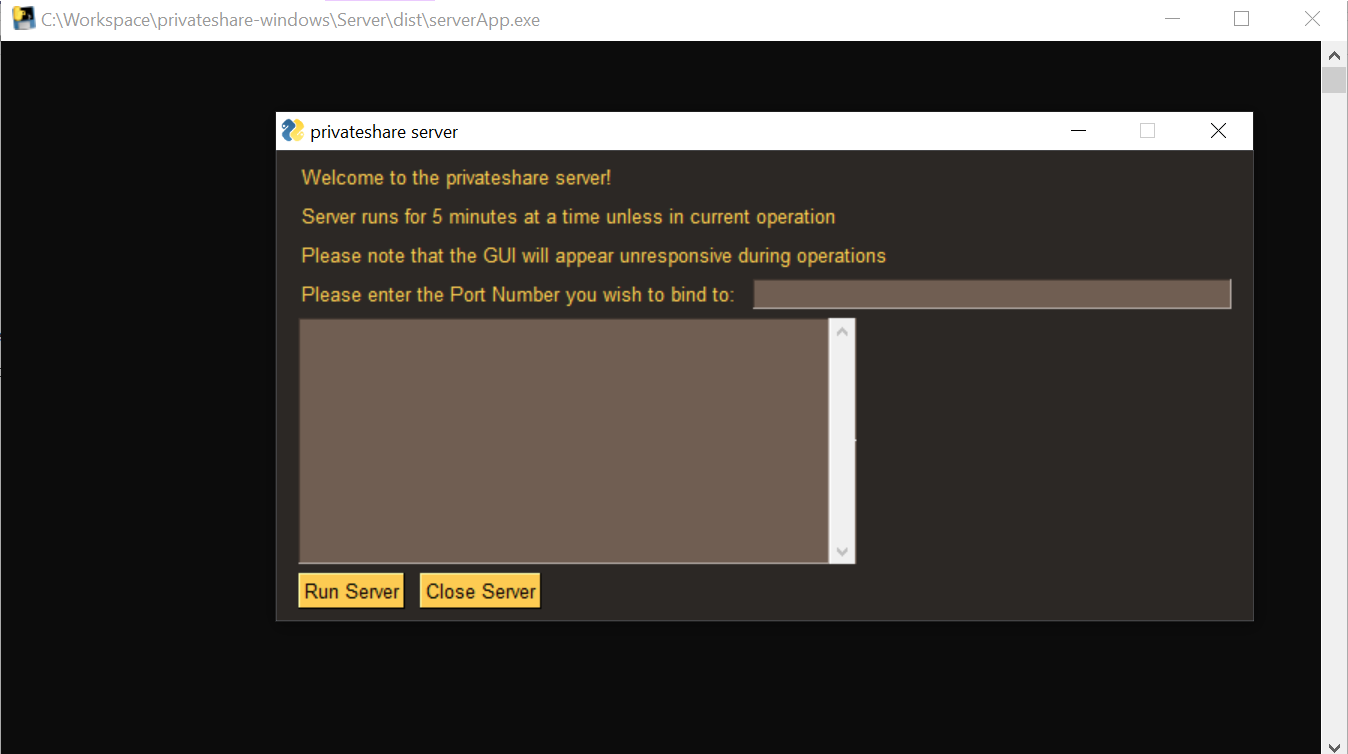
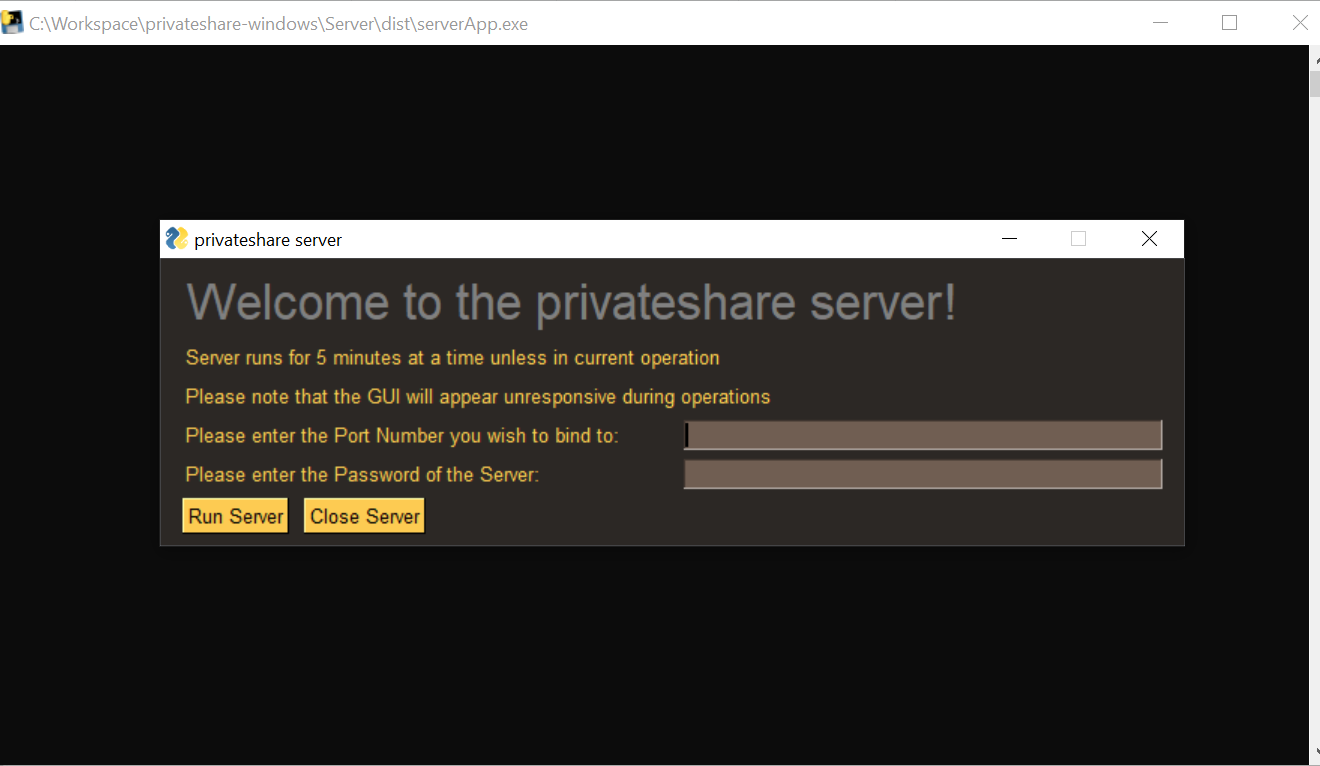
Fixed the tutorial including how to use new password feature

diff --git a/privateshare-windows.html b/privateshare-windows.html
@@ -14,33 +14,28 @@
   <link href="css/scrolling-nav.css" rel="stylesheet">
 </head>
 <body>
-<!-- Navigation -->
-<nav class="navbar navbar-expand-lg navbar-light bg-light shadow fixed-top">
-  <div class="container">
-    <a class="navbar-brand" href="privateshare-windows.html">privateshare</a>
-    <button class="navbar-toggler" type="button" data-toggle="collapse" data-target="#navbarResponsive" aria-controls="navbarResponsive" aria-expanded="false" aria-label="Toggle navigation">
-          <span class="navbar-toggler-icon"></span>
-        </button>
-    <div class="collapse navbar-collapse" id="navbarResponsive">
-      <ul class="navbar-nav ml-auto">
-        <li class="nav-item active">
-          <a class="nav-link" href="index.html">Home
-                <span class="sr-only">(current)</span>
-              </a>
-        </li>
-        <li class="nav-item">
-          <a class="nav-link" href="index.html#about">About</a>
-        </li>
-        <li class="nav-item">
-          <a class="nav-link" href="index.html#github">Github Projects</a>
-        </li>
-        <li class="nav-item">
-          <a class="nav-link" href="index.html#contact">Contact</a>
-        </li>
-      </ul>
+  <!-- Navigation -->
+  <nav class="navbar navbar-expand-lg navbar-dark bg-dark fixed-top" id="mainNav">
+    <div class="container">
+      <a class="navbar-brand js-scroll-trigger" href="#page-top">aufderheyde.me</a>
+      <button class="navbar-toggler" type="button" data-toggle="collapse" data-target="#navbarResponsive" aria-controls="navbarResponsive" aria-expanded="false" aria-label="Toggle navigation">
+        <span class="navbar-toggler-icon"></span>
+      </button>
+      <div class="collapse navbar-collapse" id="navbarResponsive">
+        <ul class="navbar-nav ml-auto">
+          <li class="nav-item">
+            <a class="nav-link js-scroll-trigger" href="index.html#about">About</a>
+          </li>
+          <li class="nav-item">
+            <a class="nav-link js-scroll-trigger" href="index.html#github">Github Projects</a>
+          </li>
+          <li class="nav-item">
+            <a class="nav-link js-scroll-trigger" href="index.html#contact">Contact</a>
+          </li>
+        </ul>
+      </div>
     </div>
-  </div>
-</nav>
+  </nav>
 
 <!-- Full Page Image Header with Vertically Centered Content -->
 <header class="masthead">
@@ -49,6 +44,20 @@
       <div class="col-12 text-center">
         <h1 class="font-weight-light">Welcome to privateshare</h1>
         <p class="lead">A simple file service application using the Python socekt library</p>
+        <br>
+        <div class="row">
+            <div class="col">
+                <a href="#downloads" class="button js-scroll-trigger" style="vertical-align:middle">Downloads</a>
+            </div>
+            <div class="col">
+                <a href="#serverinstallation" class="button js-scroll-trigger" style="vertical-align:middle">Server Install</a>
+            </div>
+            <div class="col">
+                <a href="#clientinstallation" class="button js-scroll-trigger" style="vertical-align:middle">Client Install</a>
+            </div>
+            <div class="col">
+                <a href="#faqs" class="button js-scroll-trigger" style="vertical-align:middle">FAQ's</a>
+            </div>
       </div>
     </div>
   </div>
@@ -57,6 +66,7 @@
 <!-- Page Content -->
 <section class="py-5">
   <div class="container">
+  <section id="downloads">
     <h2 class="font-weight-light">Downloads</h2>
     <hr>
     <br>
@@ -73,25 +83,28 @@
         <li><h4 class="font-weight-light">Download Server here: <a href="https://github.com/Vivinen/privateshare-mac/blob/master/Server/dist/serverApp">Click me</a><h4></li>
         <li><h4 class="font-weight-light">Download Client here: <a href="https://github.com/Vivinen/privateshare-mac/blob/master/Client/dist/clientApp">Click me</a><h4></li>
     </ul>
+    </section>
     <br>
     <br>
     <br>
     <br>
+    <section id="serverinstallation">
     <h2 class="font-weight-light">Installation</h2>
     <hr>
     <br>
     <ol>
-        <h5 class="font-weight-light"><li>Download the client or server from the links above. Which you need will depend on what you are trying to do (download/upload).</li></h5>
         <br>
         <hr>
-        <h4 class="font-weight-light">Server Installation (Steps 2-7)</h4>
+        <h4 class="font-weight-light">Server Installation</h4>
+        <br>
+        <h5 class="font-weight-light"><li>Download the client or server from the links above. Which you need will depend on what you are trying to do (download/upload).</li></h5>
         <br>
         <h5 class="font-weight-light"><li>Open serverApp.exe/serverApp.app and wait for the GUI to load like in the image below.</li></h5>
         <br>
         <img src="images/server1.png" alt="This is the serverApp upon initial loading">
         <br>
         <br>
-        <h5 class="font-weight-light"><li>Enter the port number you wish the server socket to bind to like in the image below.</li></h5>
+        <h5 class="font-weight-light"><li>Enter the port number you wish the server socket to bind to like in the image below. Also enter a server password which will securely encrypt the data being transferred from server to client. The client must enter this password to access the server.</li></h5>
         <br>
         <img src="images/server2.png" alt="This is the serverApp with a port number entered">
         <br>
@@ -105,25 +118,31 @@
         <br>
         <h5 class="font-weight-light"><li>The Server may appear frozen after accepting this prompt. If so, do not worry, the server is working! This is a bug to do with GUI's and infinite loops, but not to worry, the server is working!</li></h5>
         <br>
-        <h5 class="font-weight-light"><li>Last but not least, in future when opening the server and connecting to a port, it will look look like this</li></h5>
+        <h5 class="font-weight-light"><li>Last but not least, in future when opening the server and connecting to a port, it will look look like this.</li></h5>
         <br>
         <img src="images/server4.png" alt="This is the serverApp unfrozed and running">
         <br>
         <br>
+    </ol>
+    </section>
+    <section id="clientinstallation">
+    <ol>
         <hr>
-        <h4 class="font-weight-light">Client Installation (Steps 8-14)</h4>
+        <h4 class="font-weight-light">Client Installation</h4>
         <br>
-        <h5 class="font-weight-light"><li>Open clientApp.exe/clientApp.app and wait for the GUI to load like the image below</li></h5>
+        <h5 class="font-weight-light"><li>Download the client or server from the links above. Which you need will depend on what you are trying to do (download/upload).</li></h5>
+        <br>
+        <h5 class="font-weight-light"><li>Open clientApp.exe/clientApp.app and wait for the GUI to load like the image below.</li></h5>
         <br>
         <img src="images/client1.png" alt="Client Upon Loading initially">
         <br>
         <br>
-        <h5 class="font-weight-light"><li>Enter the IP address of the server you are trying to connect to as well as the port number the server is bound to (these credentials are usually provided by the person maintaining the server)</li><h5>
+        <h5 class="font-weight-light"><li>Enter the IP address of the server you are trying to connect to as well as the port number the server is bound to (these credentials are usually provided by the person maintaining the server). Please also enter the server password which is specified by the server maintainer.</li><h5>
         <br>
         <img src="images/client2.png" alt="Client with entered credentials">
         <br>
         <br>
-        <h5 class="font-weight-light"><li>From here you can connect with the server by selecting one of the options from the menu on the left. "Put", uploads a file with specified filename to the server. "Get" downloads a file with specified filename from the server. "List", retrieves a list of available files from the server which can be downloaded by the client.</li></h5>
+        <h5 class="font-weight-light"><li>From here you can connect with the server by selecting one of the options from the menu. "Put", uploads a file with specified filename to the server. "Get" downloads a file with specified filename from the server. "List", retrieves a list of available files from the server which can be downloaded by the client.</li></h5>
         <br>
         <h5 class="font-weight-light"><li>Start with the "List" command to see what's available on the server.</li></h5>
         <br>
@@ -131,28 +150,56 @@
         <img src="images/client3.1.png" alt="List command of clientApp">
         <br>
         <br>
-        <h5 class="font-weight-light"><li>To download a file from the given list, change the option to "Get" from the operation menu on the left, choose a file, and type that filename into the box at the bottom of the application. Then press the "Put/Get/List" button to begin the download. * Note, files will be downloaded by default to the same directory in which clientApp.exe/clientApp.app is located.</li></h5>
+        <h5 class="font-weight-light"><li>To download a file from the given list, change the option to "Get" from the operation menu, choose a file, and type that filename into the box at the bottom of the application. Then press the "Put/Get/List" button to begin the download. * Note, files will be downloaded by default to the same directory in which clientApp.exe/clientApp.app is located.</li></h5>
         <br>
+        <img src="images/client4.png" alt="Get operation of clientApp">
         <img src="images/client4.1.png" alt="Get operation of clientApp">
-        <img src="images/client4.2.png" alt="Get operation of clientApp">
         <br>
         <br>
-        <h5 class="font-weight-light"><li>To upload file to the server, change the option to "Put" from the operation menu on the left, choose a file from the directory in which clientApp.exe/clientApp.app is located in, and enter the filename into the box at the bottom of the application. Then press the "Put/Get/List" button to begin the upload.
+        <h5 class="font-weight-light"><li>To upload file to the server, change the option to "Put" from the operation menu, choose a file from the directory in which clientApp.exe/clientApp.app is located in, and enter the filename into the box at the bottom of the application. Then press the "Put/Get/List" button to begin the upload.
         <br>
         <br>
         <img src="images/client5.png" alt="Upload operation of clientApp">
         <img src="images/client5.1.png" alt="Upload operation of clientApp">
-        <br>
-        <br>
-        <h5 class="font-weight-light"><li></li></h5>
     </ol>
+    <br>
+    <br>
+    </section>
+    <br>
+    <br>
+    <section id="faqs">
     <h2 class="font-weight-light">Frequently Asked Questions</h2>
     <hr>
     <br>
     <ol>
-    <h3 class="font-weight-light"><li>
-    
+    <h3 class="font-weight-light"><li>Is privateshare safe to use?</li></h3>
+    <br>
+    <h4 class="font-weight-light">Privateshare is comepletely safe to use in the sense that all source code involved in the program is open source and available for inspection on GitHub. AES encryption is used to encrypt data serverside before sending any packets and a unique request cryptographic key is generated per request and shared with the client if a correct password is entered.</h4>
+    <br>
+    <h3 class="font-weight-light"><li>Is privateshare legal to use?</li></h3>
+    <br>
+    <h4 class="font-weight-light">privateshare is completely legal to use for sharing files. That being said, the creator of privateshare does not condone the use of this software for sharing any copyrighted materials, as well as any other nefarious uses for which this software may be abused.</h4>
+    <br>
+    </section>
   </div>
 </section>
+
+  <!-- Footer -->
+  <footer class="py-5 bg-dark">
+    <div class="container">
+      <p class="m-0 text-center text-white">Copyright &copy; aufderheyde.me 2020</p>
+    </div>
+    <!-- /.container -->
+  </footer>
+
+  <!-- Bootstrap core JavaScript -->
+  <script src="vendor/jquery/jquery.min.js"></script>
+  <script src="vendor/bootstrap/js/bootstrap.bundle.min.js"></script>
+
+  <!-- Plugin JavaScript -->
+  <script src="vendor/jquery-easing/jquery.easing.min.js"></script>
+
+  <!-- Custom JavaScript for this theme -->
+  <script src="js/scrolling-nav.js"></script>
 </body>
 </html>

diff --git a/css/scrolling-nav.css b/css/scrolling-nav.css
@@ -24,3 +24,43 @@ img {
   background-position: center;
   background-repeat: no-repeat;
 }
+
+.button {
+  display: inline-block;
+  border-radius: 4px;
+  background-color: #f4511e;
+  border: none;
+  color: #FFFFFF;
+  text-align: center;
+  font-size: 28px;
+  padding: 20px;
+  width: 200px;
+  transition: all 0.5s;
+  cursor: pointer;
+  margin: 5px;
+}
+
+.button span {
+  cursor: pointer;
+  display: inline-block;
+  position: relative;
+  transition: 0.5s;
+}
+
+.button span:after {
+  content: '\00bb';
+  position: absolute;
+  opacity: 0;
+  top: 0;
+  right: -20px;
+  transition: 0.5s;
+}
+
+.button:hover span {
+  padding-right: 25px;
+}
+
+.button:hover span:after {
+  opacity: 1;
+  right: 0;
+}
